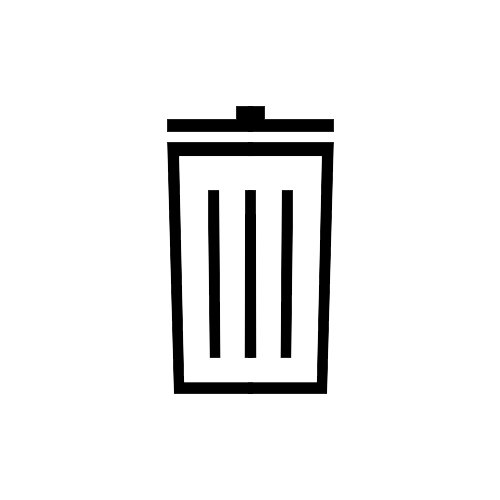
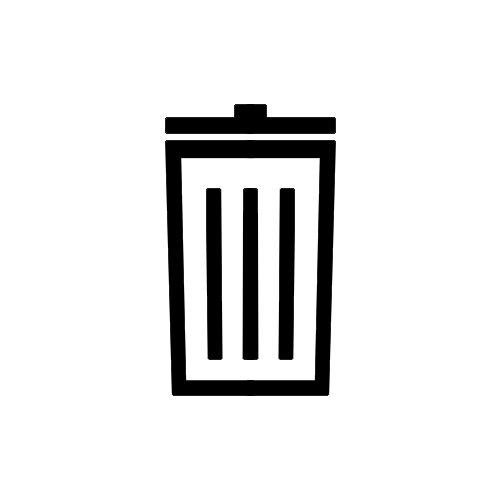
helper functions + styling tweaks
dry code, thiccer trash icon, added descriptions for toggles.

Changed region(s): [[0.33, 0.21, 0.69, 0.81], [0.48, 0.36, 0.6, 0.72]]

diff --git a/src/App.js b/src/App.js
@@ -4,6 +4,8 @@ import './App.css';
 import Header from './components/Header.js';
 import ListItem from './components/ListItem.js';
 import Footer from './components/Footer.js';
+import { classPicker } from './Helper.js';
+
 
 class App extends Component {
   constructor() {
@@ -18,8 +20,8 @@ class App extends Component {
         weighted: false
       },
       menu: false, // true: expanded menu (half list), false: collapsed menu (full list)
-      list: ['Hike', 'Eat', 'Sleep', 'Code', 'Cry', 'Cook', 'Fix max height of list items','Publish'],
-      weights: [3, 3, 3, 3, 3, 3, 3, 3], //between 1-5, i.e. item with weight 5 is 5x more likely to be picked over item with weight 1
+      list: ['Hike', 'Sleep', 'Code', 'Read', 'Cook', 'Write'],
+      weights: [3, 3, 3, 3, 3, 3], //between 1-5, i.e. item with weight 5 is 5x more likely to be picked over item with weight 1
       selected: [-1, -2, -3], // last two indexes optional for runnerUp
       foolsGold: -1,
       info: "Hi, I'm Scott.\nThis is my first web app using ReactJS.\nI created this because my girlfriend and I hate having to decide on things.\nYes I was being petty."
@@ -29,31 +31,9 @@ class App extends Component {
     this.optionsToggle = this.optionsToggle.bind(this);
   }
 
-  // ListItem
-
   clearAll() {
     if (window.confirm('Are you sure you want to clear your list?'))
       this.setState({list: [], selected: -1});
-  }
-
-  optionsToggle(property) {
-    let newOptions = {...this.state.options};
-    newOptions[property] = !this.state.options[property];
-    this.setState({options: newOptions});
-
-    //check if dishonest was enabled
-    if(property === 'dishonest' && newOptions[property]) {
-      var len = this.state.list.length;
-      var cheat = (len > 0) ? Math.floor(Math.random() * len) : -1;
-
-      var shame = 'Cheater';
-      for (var i = 0; i < cheat; i++) {
-        shame += ' !';
-      }
-      alert(shame);
-
-      this.setState({foolsGold: cheat});
-    }
   }
 
   delete(index) {
@@ -88,18 +68,11 @@ class App extends Component {
     }
   }
 
-  // Footer
-  toggleMenu() {
-    var newMenu = !this.state.menu;
-    this.setState({menu: newMenu});
-  }
-
   decide(){
-
     var len = this.state.list.length;
 
     //autoDelete: true
-    if(this.state.options.autoDelete){
+    if(this.state.options.autoDelete && this.state.selected[0] >= 0){
       this.delete(this.state.selected[0]);
       len--;
       //TODO: delete backup selections if runnerUp: true
@@ -107,44 +80,57 @@ class App extends Component {
 
     var gold;
 
-    if (!this.state.options.dishonest){
-      gold = (len > 0) ? Math.floor(Math.random() * len) : -1;
-    }
-    else {
+    if (this.state.options.dishonest){
       gold = this.state.foolsGold;
       this.optionsToggle('dishonest');
     }
+    else {
+      gold = (len > 0) ? Math.floor(Math.random() * len) : -1;
+    }
 
-    var silver = (len > 1) ? Math.floor(Math.random() * len) : -2;
-    var bronze = (len > 2) ? Math.floor(Math.random() * len) : -3;
+    var silver = this.pickRandom(len, 1, -2);
+    var bronze = this.pickRandom(len, 2, -3);
 
     //check for duplicates
     while(silver === gold || bronze === gold || silver === bronze){
-      silver = (len > 1) ? Math.floor(Math.random() * len) : -2;
-      bronze = (len > 2) ? Math.floor(Math.random() * len) : -3;
+      silver = this.pickRandom(len, 1, -2);
+      bronze = this.pickRandom(len, 2, -3);
     }
     
     this.setState({selected: [gold, silver, bronze]});
   }
 
-
-  interfaceClassPicker() {
-    var result = "interface";
-    if (this.state.options.night)
-      result += " interface--night";
-    else
-      result += " interface--day";
-    return result;
+  pickRandom(len, min, def) {
+    return (len > min) ? Math.floor(Math.random() * len) : def;
   }
 
-  footerClassPicker() {
-    var result = "footer-container";
-    if (this.state.menu)
-      result += " footer-container--full";
-    else
-      result += " footer-container--half";
-    return result;
+  // Footer
+  toggleMenu() {
+    var newMenu = !this.state.menu;
+    this.setState({menu: newMenu});
   }
+
+
+  optionsToggle(property) {
+    let newOptions = {...this.state.options};
+    newOptions[property] = !newOptions[property];
+    this.setState({options: newOptions});
+
+    //check if dishonest was enabled
+    if(property === 'dishonest' && newOptions[property]) {
+      var len = this.state.list.length;
+      var cheat = (len > 0) ? Math.floor(Math.random() * len) : -1;
+
+      var shame = 'Cheater';
+      for (var i = 0; i < cheat; i++) {
+        shame += '!';
+      }
+      alert(shame);
+
+      this.setState({foolsGold: cheat});
+    }
+  }
+
 
   render() {
 
@@ -160,10 +146,12 @@ class App extends Component {
           options={this.state.options} 
         />)
     });
+
     var selected = (this.state.selected[0] >= 0) ? this.state.list[this.state.selected[0]] : "Decide on something";
 
+
     return (
-      <div id="interface" className={this.interfaceClassPicker()}>
+      <div id="interface" className={classPicker("interface", "night", "day", this.state.options.night)}>
         <div className="header-container">
           <Header 
             leftLink={'https://www.scottqmn.com'} 
@@ -179,7 +167,7 @@ class App extends Component {
             </ul>
         </div>
 
-        <div className={this.footerClassPicker()}>
+        <div className={classPicker("footer-container", "full", "half", this.state.menu)}>
           <Footer 
             decide={() => this.decide()} 
             addItem={() => this.addItem()} 

diff --git a/src/components/OptionToggle.js b/src/components/OptionToggle.js
@@ -8,17 +8,10 @@ import PopUp from '../images/popup.png';
 import RunnerUp from '../images/stands.png';
 import Weighted from '../images/weighted.png';
 import NA from '../images/options.png';
+import {classPicker, invert, translate} from '../Helper.js';
 
 
 class OptionToggle extends Component {
-
-    //translates camelCase to Regular Form
-    translate() {
-        var s = this.props.type;
-        return s.split(/(?=[A-Z])/).map(function(p) {
-            return p.charAt(0).toUpperCase() + p.slice(1);
-        }).join(' ');
-    }
 
     getIcon() {
         switch (this.props.type){
@@ -38,23 +31,18 @@ class OptionToggle extends Component {
                 return NA;
         }
     }
-    
-    toggleClassPicker() {
-        var result = "toggle";
-        if (this.props.options[this.props.type])
-            result += " toggle--on";
-        else
-            result += " toggle--off";
-        return result;
-    }
 
     render() {
-        var name = this.translate();
+        var name = translate(this.props.type);
 
         return(
-            <div title={name} onClick={() => this.props.optionsToggle(this.props.type)} className={this.toggleClassPicker()}>
-                <img className={this.props.options.night ? "img-invert" : ""} src={this.getIcon()} alt={this.props.type}/>
+            <div className="toggle-container">
+                <div title={name} onClick={() => this.props.optionsToggle(this.props.type)} className={classPicker("toggle", "on", "off", this.props.options[this.props.type])}>
+                    <img className={invert(this.props.options.night)} src={this.getIcon()} alt={this.props.type}/>
+                </div>
+                <p className={classPicker("toggle-name", "night", "day", this.props.options.night)}>{name}</p>
             </div>
+            
         );
     }
 }

diff --git a/src/components/Header.js b/src/components/Header.js
@@ -4,33 +4,21 @@ import './Header.css';
 import homeIcon from '../images/home.png';
 import infoIcon from '../images/info.png';
 import Dice from '../images/dice.png';
+import {classPicker, invert} from '../Helper.js';
 
 class Header extends Component {
 
-    headerClassPicker() {
-        var result = "header";
-        if (this.props.options.night)
-            result += " header--night";
-        else
-            result += " header--day";
-        return result;
-    }
-
-    imgClassPicker() {
-        return (this.props.options.night) ? "img-invert" : "";
-    }
-
     render() {
         return(
-            <div id="header" className={this.headerClassPicker()}>
+            <div id="header" className={classPicker("header", "night", "day", this.props.options.night)}>
                 <a className="header__icon" href={this.props.leftLink}>  
-                    <img id="home" className={this.imgClassPicker()} alt="home" src={homeIcon}/>
+                    <img id="home" className={invert(this.props.options.night)} alt="home" src={homeIcon}/>
                 </a>
                 <a className="header__icon" onClick={() => this.props.test('runnerUp')}>
-                    <img id="dice" className={this.imgClassPicker()} alt="dice" src={Dice}/>
+                    <img id="dice" className={invert(this.props.options.night)} alt="dice" src={Dice}/>
                 </a>
                 <a className="header__icon" onClick={() => alert(this.props.info)}>
-                    <img id="info" className={this.imgClassPicker()} alt="info" src={infoIcon}/>
+                    <img id="info" className={invert(this.props.options.night)} alt="info" src={infoIcon}/>
                 </a>
             </div>
         );

diff --git a/src/components/Button.js b/src/components/Button.js
@@ -4,13 +4,10 @@ import './Button.css';
 import addIcon from '../images/cross.png';
 import decideIcon from '../images/decide.png';
 import optionsIcon from '../images/options.png';
+import {classPicker, invert} from '../Helper.js';
 
 class Button extends Component {
-    buttonClassPicker() {
-        var name = "button";
-        name += (this.props.options.night) ? " button--night" : " button--day";
-        return name;
-    }
+    
 
     render() {
         var icons = [optionsIcon, decideIcon, addIcon];
@@ -18,10 +15,10 @@ class Button extends Component {
 
         return(
             <div 
-                className={this.buttonClassPicker()} 
+                className={classPicker("button", "night", "day", this.props.options.night)} 
                 onClick={this.props.onClick}>
                 <img 
-                    className={this.props.options.night ? "img-invert" : ""} 
+                    className={invert(this.props.options.night)} 
                     src={icons[this.props.value]} 
                     alt={alts[this.props.value]}
                 />

diff --git a/src/components/Footer.js b/src/components/Footer.js
@@ -2,6 +2,7 @@ import React, { Component } from 'react';
 import './Footer.css';
 import MenuContent from './MenuContent.js';
 import Button from './Button.js';
+import {classPicker} from '../Helper.js';
 
 class Footer extends Component {
     constructor() {
@@ -27,15 +28,9 @@ class Footer extends Component {
         this.setState({contentView: val});
     }
 
-    footerClassPicker() {
-        var result = "footer";
-        result += (this.props.options.night) ? " footer---night" : " footer--day";
-        return result;
-    }
-
     render() {
         return(
-            <div id="footer" className={this.footerClassPicker()}>
+            <div id="footer" className={classPicker("footer", "night", "day", this.props.options.night)}>
 
                 {this.props.menu ? 
                     <MenuContent 

diff --git a/src/components/OptionToggle.css b/src/components/OptionToggle.css
@@ -23,12 +23,14 @@
   /* TODO */
 }
 
+.toggle-container {
+    padding: 2%;
+}
+
 .toggle {
-    margin: 0 4%;
     height: 10vh;
     width: auto;
     border-radius: 50%;
-    align-items: center;
 }
 
 .toggle img {
@@ -47,16 +49,20 @@
     filter: invert(100%);
 }
 
-
 .toggle--off {
     background-color: rgba(0, 0, 0, 0.25);
 }
 
-.description {
-    font-size: 2pt;
-    color: black;
-    max-width: 45px;
+.toggle-name {
+    font-size: 1em;
+    margin: 0;
+    text-align: center;
+}
 
-    font-family: arial;
-    font-size: 0%;
+.toggle-name--night {
+    color: #ffffff75;
+}
+
+.toggle-name--day {
+    color: #00000050;
 }

diff --git a/src/components/ListItem.js b/src/components/ListItem.js
@@ -3,6 +3,7 @@ import './ListItem.css';
 
 import Menu from '../images/menu.png';
 import Cross from '../images/cross.png';
+import {classPicker} from '../Helper.js';
 
 class ListItem extends Component {
 
@@ -25,10 +26,7 @@ class ListItem extends Component {
       }
     }
     else {
-      if (this.props.selected[0] === this.props.index)
-        resultClass += " list-item--selected";
-      else
-        resultClass += " list-item--non-selected";
+      resultClass = classPicker("list-item", "selected", "non-selected", (this.props.selected[0] === this.props.index));
     }
 
     return resultClass;

diff --git a/src/Helper.js b/src/Helper.js
@@ -1,0 +1,15 @@
+export function classPicker(def, opt1, opt2, con) {
+
+  return def + " " + (con ? (def + "--" + opt1) : (def + "--" + opt2));
+}
+
+export function invert(con) {
+  return (con ? "img-invert" : "");
+}
+
+//translates camelCase to Regular Form
+export function translate(s) {
+  return s.split(/(?=[A-Z])/).map(function(p) {
+      return p.charAt(0).toUpperCase() + p.slice(1);
+  }).join(' ');
+}
